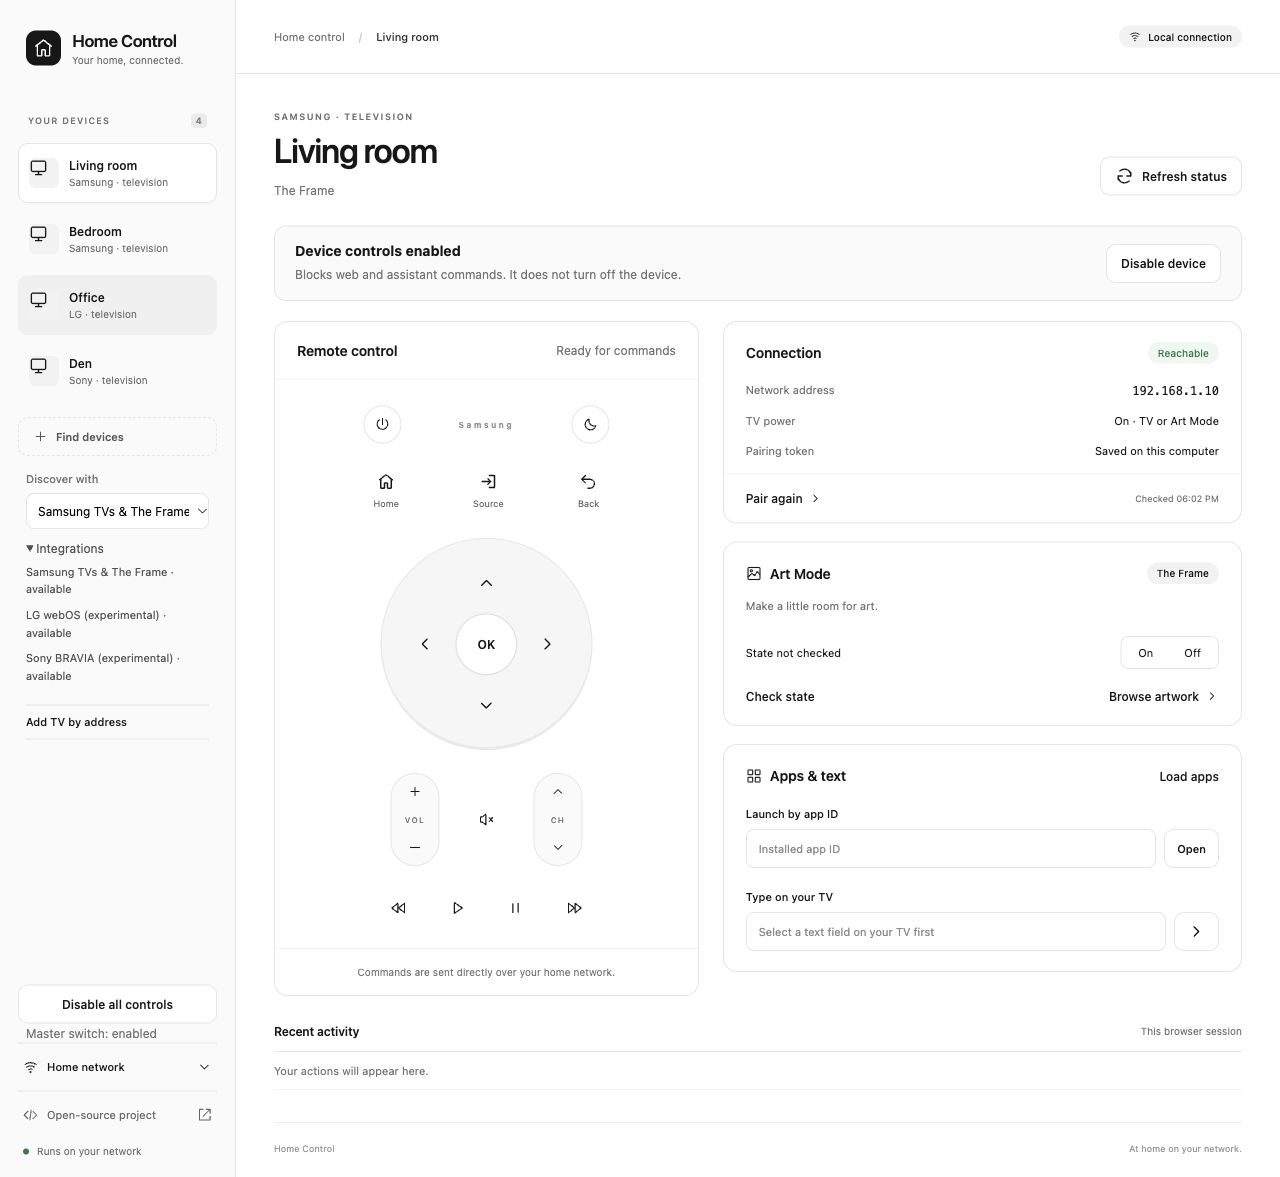
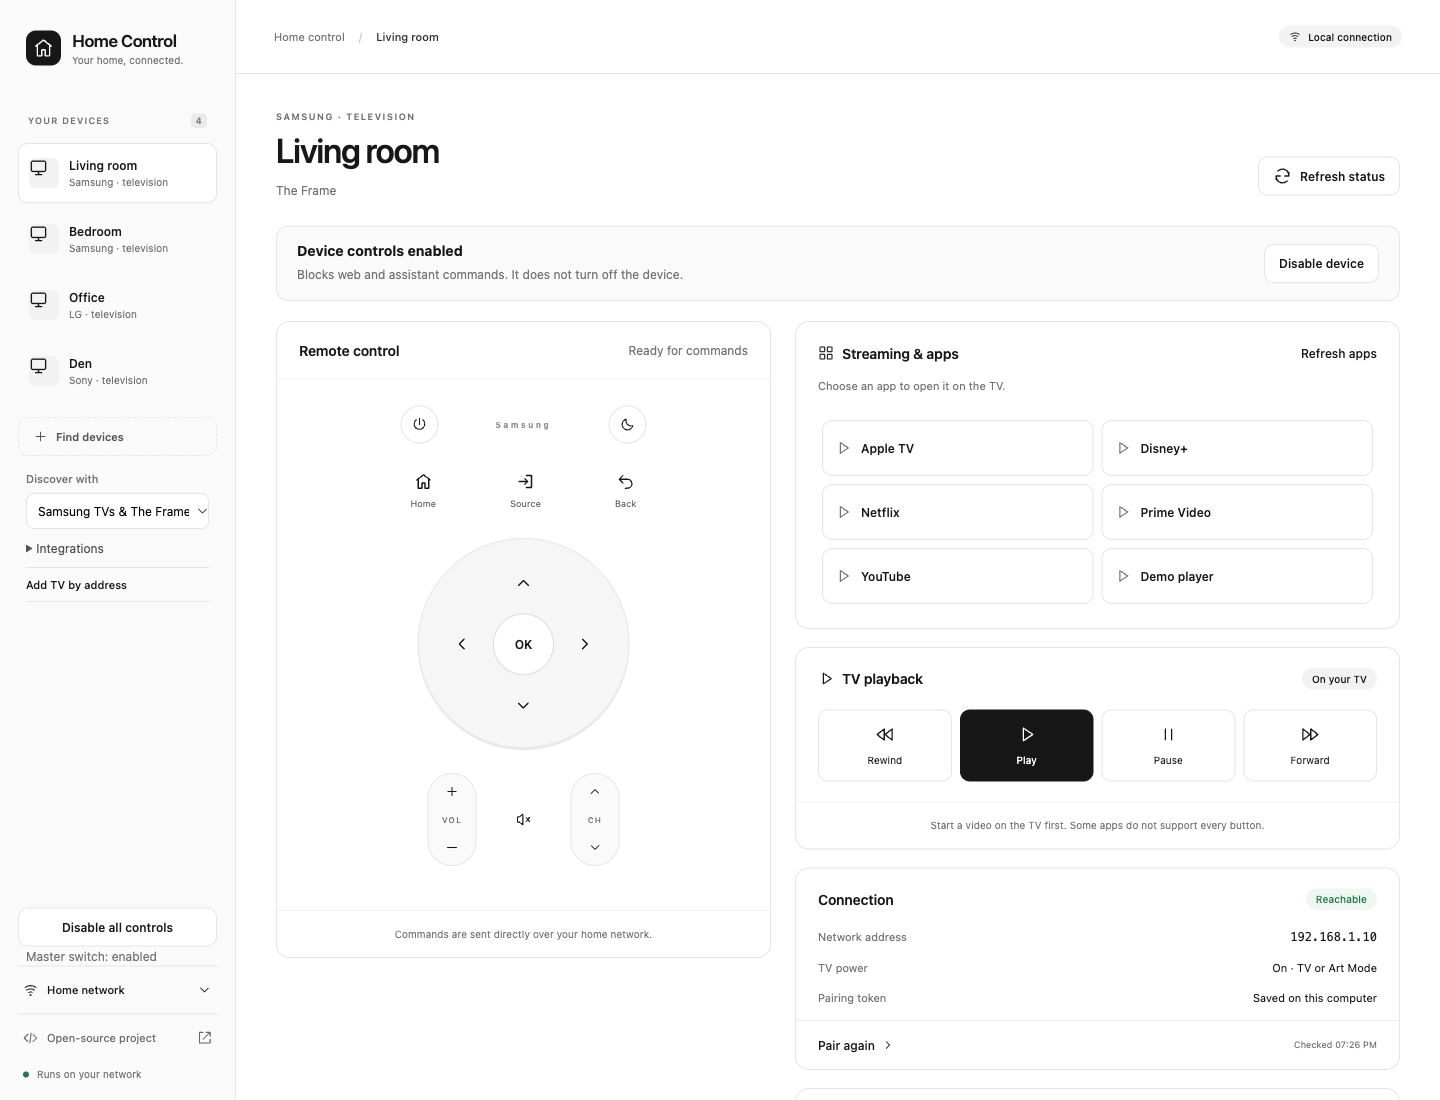
Add installed-app shortcuts and dedicated TV playback controls

diff --git a/src/tv_remote_mcp/static/index.html b/src/tv_remote_mcp/static/index.html
@@ -62,14 +62,30 @@
               <div class="remote-shortcuts"><button class="remote-key" data-key="home" data-paired><span data-icon="home"></span><span>Home</span></button><button class="remote-key" data-key="source" data-paired><span data-icon="input"></span><span>Source</span></button><button class="remote-key" data-key="back" data-paired><span data-icon="back"></span><span>Back</span></button></div>
               <div class="dpad" role="group" aria-label="Directional controls"><button class="dpad-up" data-key="up" data-paired aria-label="Up"><span data-icon="up"></span></button><button class="dpad-left" data-key="left" data-paired aria-label="Left"><span data-icon="left"></span></button><button class="dpad-ok" data-key="enter" data-paired>OK</button><button class="dpad-right" data-key="right" data-paired aria-label="Right"><span data-icon="right"></span></button><button class="dpad-down" data-key="down" data-paired aria-label="Down"><span data-icon="down"></span></button></div>
               <div class="rockers"><div class="rocker" role="group" aria-label="Volume"><button data-key="volume_up" data-paired aria-label="Volume up"><span data-icon="plus"></span></button><span>VOL</span><button data-key="volume_down" data-paired aria-label="Volume down"><span data-icon="minus"></span></button></div><button class="round-button mute" data-key="mute" data-paired aria-label="Toggle mute" title="Toggle mute"><span data-icon="mute"></span></button><div class="rocker" role="group" aria-label="Channel"><button data-key="channel_up" data-paired aria-label="Channel up"><span data-icon="up"></span></button><span>CH</span><button data-key="channel_down" data-paired aria-label="Channel down"><span data-icon="down"></span></button></div></div>
-              <div class="playback" role="group" aria-label="Playback"><button class="round-button" data-key="rewind" data-paired aria-label="Rewind"><span data-icon="rewind"></span></button><button class="round-button" data-key="play" data-paired aria-label="Play"><span data-icon="play"></span></button><button class="round-button" data-key="pause" data-paired aria-label="Pause"><span data-icon="pause"></span></button><button class="round-button" data-key="forward" data-paired aria-label="Fast forward"><span data-icon="forward"></span></button></div>
+
             </div>
             <p class="panel-footnote" id="remote-help">Pair your TV to unlock the remote.</p>
           </section>
           <div class="side-panels">
+            <section class="panel" id="streaming-panel" aria-labelledby="streaming-heading">
+              <div class="panel-title"><h2 id="streaming-heading"><span data-icon="apps"></span>Streaming &amp; apps</h2><button id="apps-list" class="text-button" data-paired>Load apps</button></div>
+              <p id="apps-help" class="muted section-copy">Load this TV's apps, then choose one to open it on the TV.</p>
+              <div id="apps" class="app-grid" aria-label="Installed TV apps" hidden></div>
+              <p id="apps-note" class="muted section-copy" hidden></p>
+            </section>
+            <section class="panel" id="playback-panel" aria-labelledby="playback-heading">
+              <div class="panel-title"><h2 id="playback-heading"><span data-icon="play"></span>TV playback</h2><span class="pill">On your TV</span></div>
+              <div class="player-controls" role="group" aria-label="TV playback controls">
+                <button data-key="rewind" data-paired aria-label="Rewind"><span data-icon="rewind"></span><span>Rewind</span></button>
+                <button data-key="play" data-paired aria-label="Play"><span data-icon="play"></span><span>Play</span></button>
+                <button data-key="pause" data-paired aria-label="Pause"><span data-icon="pause"></span><span>Pause</span></button>
+                <button data-key="forward" data-paired aria-label="Fast forward"><span data-icon="forward"></span><span>Forward</span></button>
+              </div>
+              <p class="panel-footnote">Start a video on the TV first. Some apps do not support every button.</p>
+            </section>
             <section class="panel connection-panel"><div class="panel-title"><h2>Connection</h2><span id="connection-status" class="pill">Not checked</span></div><dl class="device-facts"><div><dt>Network address</dt><dd id="device-address" class="mono">—</dd></div><div><dt>TV power</dt><dd id="device-power">Unknown</dd></div><div><dt>Pairing token</dt><dd id="device-pairing">Not saved</dd></div></dl><div class="connection-actions"><button id="pair-again" class="text-button">Pair television<span data-icon="right"></span></button><span class="muted small" id="last-checked">Status not checked yet</span></div></section>
             <section class="panel" id="art-panel" hidden><div class="panel-title"><h2><span data-icon="art"></span>Art Mode</h2><span class="pill">The Frame</span></div><p class="muted section-copy">Make a little room for art.</p><div class="art-controls"><span id="art-status">State not checked</span><div class="segmented"><button id="art-on" data-paired>On</button><button id="art-off" data-paired>Off</button></div></div><div class="row-actions"><button id="art-refresh" class="text-button" data-paired>Check state</button><button id="art-list" class="text-button" data-paired>Browse artwork<span data-icon="right"></span></button></div><div id="artworks" class="item-list" hidden></div></section>
-            <section class="panel" id="apps-panel"><div class="panel-title"><h2><span data-icon="apps"></span><span id="apps-heading">Apps &amp; text</span></h2><button id="apps-list" class="text-button" data-paired>Load apps</button></div><div id="apps" class="item-list" hidden></div><form id="launch-form" class="compact-form"><label for="app-id">Launch by app ID</label><div class="input-action"><input id="app-id" placeholder="Installed app ID" maxlength="2048" data-paired required><button class="button" type="submit" data-paired>Open</button></div></form><form id="text-form" class="compact-form"><label for="tv-text">Type on your TV</label><div class="input-action"><input id="tv-text" placeholder="Select a text field on your TV first" maxlength="500" data-paired required><button class="button" type="submit" data-paired aria-label="Send text"><span data-icon="right"></span></button></div></form></section>
+            <section class="panel" id="apps-panel"><div class="panel-title"><h2><span data-icon="code"></span><span id="apps-heading">More controls</span></h2></div><details class="advanced-apps" id="launch-details"><summary>Open an app by ID</summary><form id="launch-form" class="compact-form"><label for="app-id">Installed app ID</label><div class="input-action"><input id="app-id" placeholder="App ID for this TV" maxlength="2048" data-paired required><button class="button" type="submit" data-paired>Open</button></div></form></details><form id="text-form" class="compact-form"><label for="tv-text">Type on your TV</label><div class="input-action"><input id="tv-text" placeholder="Select a text field on your TV first" maxlength="500" data-paired required><button class="button" type="submit" data-paired aria-label="Send text"><span data-icon="right"></span></button></div></form></section>
           </div>
         </div>
         <section class="activity"><div class="activity-title"><h2>Recent activity</h2><span class="small muted">This browser session</span></div><ul id="activity-list"><li class="muted">Your actions will appear here.</li></ul></section>

diff --git a/src/tv_remote_mcp/static/app.js b/src/tv_remote_mcp/static/app.js
@@ -31,6 +31,7 @@ function icon(name) {
 document.querySelectorAll('[data-icon]').forEach(node => node.append(icon(node.dataset.icon)));
 let devices = [], selected = null, busy = false, accessToken = '', activity = [];
 let statusSequence = 0, controlsEnabled = true;
+const appLists = new Map();
 const current = () => devices.find(tv => tv.id === selected);
 function notice(text, error = false) {
   const node = $('message'); node.textContent = text; node.hidden = !text;
@@ -62,6 +63,7 @@ function updateControls() {
     button.disabled = busy;
   });
   document.querySelectorAll('[data-paired]').forEach(node => node.disabled = busy || !controlsEnabled || tv?.enabled === false || !tv || !tv.paired);
+  document.querySelectorAll('#apps button').forEach(button => button.disabled ||= !tv?.actions.includes('launch'));
   $('wake').disabled = busy || !controlsEnabled || tv?.enabled === false || !tv?.capabilities.includes('wake') || (!tv?.paired && tv?.details.wake_requires_pairing);
   ['pair-main', 'pair-again'].forEach(id => $(id).disabled = busy || !controlsEnabled || tv?.enabled === false);
   // Kill switches remain usable while a slow command is in flight.
@@ -97,13 +99,17 @@ function select(id, refresh = true) {
   $('remote-panel').hidden = !tv.capabilities.includes('remote');
   $('generic-device-note').hidden = tv.capabilities.includes('remote');
   $('apps-panel').hidden = !tv.capabilities.includes('apps') && !tv.capabilities.includes('text');
-  $('launch-form').hidden = !tv.capabilities.includes('apps');
+  $('launch-details').hidden = !tv.actions.includes('launch');
+  $('streaming-panel').hidden = !tv.capabilities.includes('apps');
+  $('playback-panel').hidden = !tv.actions.includes('key') || (Array.isArray(tv.details.keys) && !['play', 'pause', 'rewind', 'forward'].some(key => tv.details.keys.includes(key)));
+  $('app-id').value = ''; $('tv-text').value = '';
+  $('launch-details').open = false;
   $('apps-list').hidden = !tv.capabilities.includes('apps');
   $('text-form').hidden = !tv.capabilities.includes('text');
   $('pair-again').hidden = !tv.capabilities.includes('pairing');
   $('pairing-description').textContent = tv.details.pairing_message || 'Authorize this connection using the instructions for this device’s integration.';
   $('device-model').textContent = [tv.model || tv.category, tv.details.experimental ? 'Experimental adapter' : null].filter(Boolean).join(' · ');
-  $('apps-heading').textContent = tv.capabilities.includes('text') ? 'Apps & text' : 'Apps'; $('device-address').textContent = tv.details.host || 'Unknown';
+  $('device-address').textContent = tv.details.host || 'Unknown';
   $('device-power').textContent = 'Unknown'; $('device-pairing').textContent = tv.paired ? 'Saved on this computer' : 'Not saved';
   $('connection-status').textContent = 'Not checked'; $('connection-status').className = 'pill';
   $('last-checked').textContent = 'Status not checked yet'; $('pairing-banner').hidden = tv.paired || !tv.capabilities.includes('pairing');
@@ -111,7 +117,8 @@ function select(id, refresh = true) {
   $('remote-caption').textContent = !controlsEnabled || tv.enabled === false ? 'Controls disabled' : tv.paired ? 'Ready for commands' : 'Pairing needed';
   $('remote-help').textContent = !controlsEnabled || tv.enabled === false ? 'A kill switch is blocking device commands.' : tv.paired ? 'Commands are sent directly over your home network.' : 'Pair your TV to unlock the remote.';
   $('art-panel').hidden = !tv.capabilities.includes('art'); resetArt();
-  ['apps', 'artworks'].forEach(name => {$(name).replaceChildren(); $(name).hidden = true;});
+  $('artworks').replaceChildren(); $('artworks').hidden = true;
+  renderApps();
   updateControls();
   if (refresh) refreshStatus().catch(error => notice(error.message, true));
 }
@@ -206,12 +213,47 @@ function itemList(id, items, title, onSelect, empty) {
   });
   if (items.length > 100) {const p = document.createElement('p'); p.textContent = 'Showing the first 100 items.'; container.append(p);}
 }
+function renderApps() {
+  const tv = current(), list = appLists.get(selected);
+  $('apps').replaceChildren(); $('apps').hidden = !list?.length;
+  $('apps-list').textContent = list === undefined ? 'Load apps' : 'Refresh apps';
+  $('apps-help').textContent = list === undefined ? "Load this TV's apps, then choose one to open it on the TV." : list.length ? 'Choose an app to open it on the TV.' : 'This TV did not return an app list. You can still open a known app ID under More controls.';
+  $('apps-note').hidden = !list || list.length <= 100;
+  $('apps-note').textContent = 'Showing the first 100 apps.';
+  if (!tv || !list) return;
+  const deviceId = tv.id;
+  list.slice(0, 100).forEach(app => {
+    const button = document.createElement('button'), label = document.createElement('span');
+    button.type = 'button'; button.setAttribute('data-paired', '');
+    button.setAttribute('aria-label', `Open ${app.name} on ${tv.name}`);
+    button.disabled = !tv.actions.includes('launch');
+    label.textContent = app.name; button.append(icon('play'), label);
+    button.addEventListener('click', () => {
+      if (selected !== deviceId || !tv.actions.includes('launch')) return;
+      const payload = {action: 'launch', app_id: app.id};
+      if (tv.integration === 'samsung') payload.app_type = app.type;
+      command(payload, `Open ${app.name}`);
+    });
+    $('apps').append(button);
+  });
+}
 $('apps-list').addEventListener('click', async () => {
-  const result = await command({action: 'apps'}, 'Load applications');
-  if (result) itemList('apps', result.apps, item => item.name || item.appId || item.app_id || item.id || 'Unnamed app', item => {
+  const deviceId = selected;
+  const result = await command({action: 'apps'}, 'Load TV apps');
+  if (!result) return;
+  const seen = new Set();
+  const apps = (Array.isArray(result.apps) ? result.apps : []).flatMap(item => {
+    if (!item || typeof item !== 'object') return [];
     const id = String(item.appId || item.app_id || item.id || '');
-    if (id) {const payload = {action: 'launch', app_id: id}; if (current()?.integration === 'samsung') payload.app_type = Number(item.app_type) === 1 ? 'NATIVE_LAUNCH' : 'DEEP_LINK'; command(payload, 'Launch application');}
-  }, 'This TV did not return an app list. You can still launch a known app ID.');
+    if (!id || seen.has(id)) return [];
+    seen.add(id);
+    return [{id, name: String(item.name || item.title || id), type: Number(item.app_type) === 1 ? 'NATIVE_LAUNCH' : 'DEEP_LINK'}];
+  });
+  // Only order names. App IDs always come from the selected TV's response.
+  const streaming = /netflix|youtube|prime video|amazon video|disney|hulu|hbo|max\b|peacock|paramount|apple tv|plex|tubi/i;
+  apps.sort((a, b) => Number(streaming.test(b.name)) - Number(streaming.test(a.name)) || a.name.localeCompare(b.name));
+  appLists.set(deviceId, apps);
+  if (selected === deviceId) {renderApps(); updateControls();}
 });
 $('art-list').addEventListener('click', async () => {
   const result = await command({action: 'art_list'}, 'Load artwork');

diff --git a/src/tv_remote_mcp/static/app.css b/src/tv_remote_mcp/static/app.css
@@ -14,3 +14,17 @@ main{margin-left:236px}.topbar{height:74px;border-bottom:1px solid var(--line);d
 .integration-picker{margin-top:16px;padding:0 8px}.integration-picker label{display:block;font-size:11px;color:#737373;margin-bottom:8px}.integration-picker select{width:100%;padding:9px 7px;border:1px solid #e5e5e5;border-radius:8px;background:#fff;font:inherit;font-size:12px}.integration-details{margin-top:12px;font-size:12px;color:#525252}.integration-details summary{cursor:pointer}.integration-details p{font-size:11px;line-height:1.6;margin:8px 0}.control-layout:has(.remote-panel[hidden]){grid-template-columns:1fr}@media(max-width:800px){.integration-picker{margin:12px 0}.sidebar-bottom{margin-top:16px}}
 
 .manual-add{margin:12px 8px 0;padding:10px 0;font-size:12px}.manual-add label{display:block;margin:10px 0 5px}.manual-add select{width:100%;padding:8px;border:1px solid #e5e5e5;border-radius:8px;background:#fff;font:inherit}.manual-add .button{margin-top:10px}#sony-dialog form{padding:24px}#sony-dialog input{width:100%;margin:10px 0}#sony-dialog p{line-height:1.6}
+
+.control-layout{align-items:start}
+/* TV app shortcuts and playback use the same local command path as the remote. */
+.app-grid{display:grid;grid-template-columns:repeat(2,minmax(0,1fr));gap:8px;margin:0 22px 20px;max-height:280px;overflow:auto;padding:4px}
+.app-grid button{display:flex;align-items:center;gap:10px;min-height:56px;padding:12px;border:1px solid var(--line);border-radius:10px;background:var(--canvas);text-align:left;font-size:12px;font-weight:550;overflow-wrap:anywhere}
+.app-grid button:hover:not(:disabled){background:var(--subtle);border-color:#bdbdbd}
+.app-grid button svg{width:16px;height:16px;flex-shrink:0;color:var(--muted)}
+.player-controls{display:grid;grid-template-columns:repeat(4,minmax(0,1fr));gap:8px;padding:0 22px 20px}
+.player-controls button{display:flex;flex-direction:column;align-items:center;justify-content:center;gap:10px;min-height:72px;border:1px solid var(--line);border-radius:10px;background:var(--canvas);font-size:10px;touch-action:manipulation}
+.player-controls button:hover:not(:disabled){background:var(--subtle)}
+.player-controls button[data-key="play"]{background:var(--ink);color:#fff;border-color:var(--ink)}
+.player-controls button[data-key="play"]:hover:not(:disabled){background:#383838}
+.advanced-apps{margin:0 22px 20px}.advanced-apps summary{font-size:12px;cursor:pointer;min-height:28px}.advanced-apps .compact-form{padding:14px 0 0}
+@media(max-width:800px){.app-grid{margin-left:15px;margin-right:15px}.player-controls{padding-left:15px;padding-right:15px}}

diff --git a/tests/preview_web.py b/tests/preview_web.py
@@ -42,7 +42,16 @@ class PreviewController(Controller):
         return {"status": "command_sent"}
 
     def apps(self, tv_id):
-        return {"apps": [{"name": "Example player", "appId": "example.player"}]}
+        return {
+            "apps": [
+                {"name": "Netflix", "appId": "demo.netflix", "app_type": 2},
+                {"name": "YouTube", "appId": "demo.youtube", "app_type": 2},
+                {"name": "Prime Video", "appId": "demo.prime", "app_type": 2},
+                {"name": "Disney+", "appId": "demo.disney", "app_type": 2},
+                {"name": "Apple TV", "appId": "demo.apple", "app_type": 1},
+                {"name": "Demo player", "appId": "demo.player"},
+            ]
+        }
 
     def launch(self, tv_id, app_id, app_type="DEEP_LINK"):
         return {"status": "command_sent"}

diff --git a/docs/TV_VENDORS.md b/docs/TV_VENDORS.md
@@ -127,3 +127,19 @@ All three adapters check the device and master switches before commands.
 They check again after a connection or authorization step.
 This includes pairing, wake, apps, and remote keys.
 Keys use private files with mode 0600. Inventory and status never return them.
+
+## Streaming apps and playback
+
+In the dashboard, select your TV. Select **Load apps** under **Streaming & apps**.
+Choose an app button to open that app on the TV. Streaming services appear first.
+The list comes from your TV. It stays in this browser tab until you reload the page.
+Select **Refresh apps** after you install or remove an app.
+
+If your TV does not return an app list, use **More controls**, then
+**Open an app by ID**. Use an installed app ID for that TV. IDs differ by vendor.
+The dashboard does not install apps or sign in to streaming accounts.
+
+Start a video in the TV app. Use **TV playback** for play, pause, rewind, and
+fast forward. App and firmware support varies. These buttons send remote commands.
+They do not confirm the video state or provide a video feed in the browser.
+Both control switches apply to app launches and playback commands.
